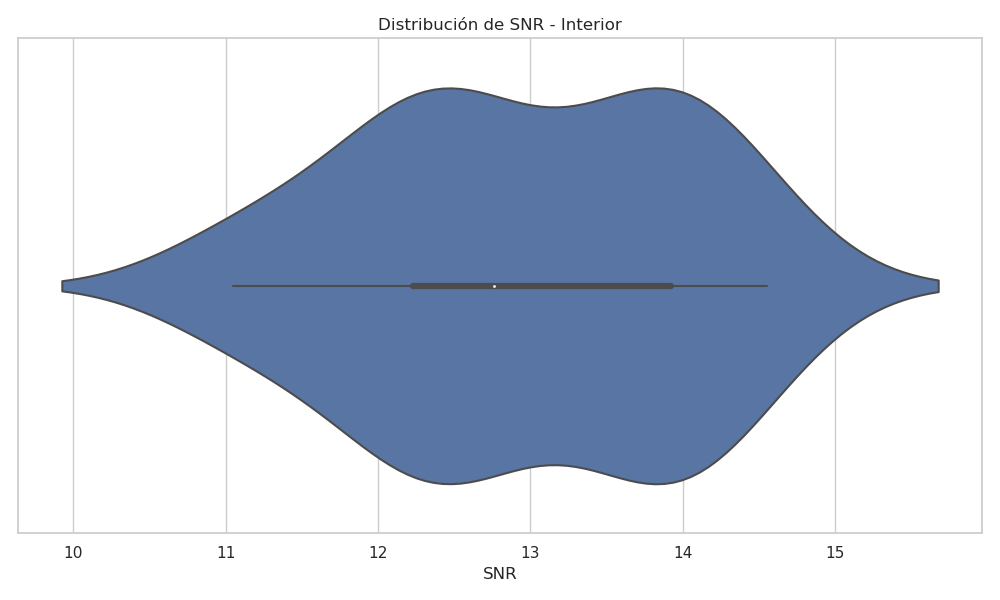
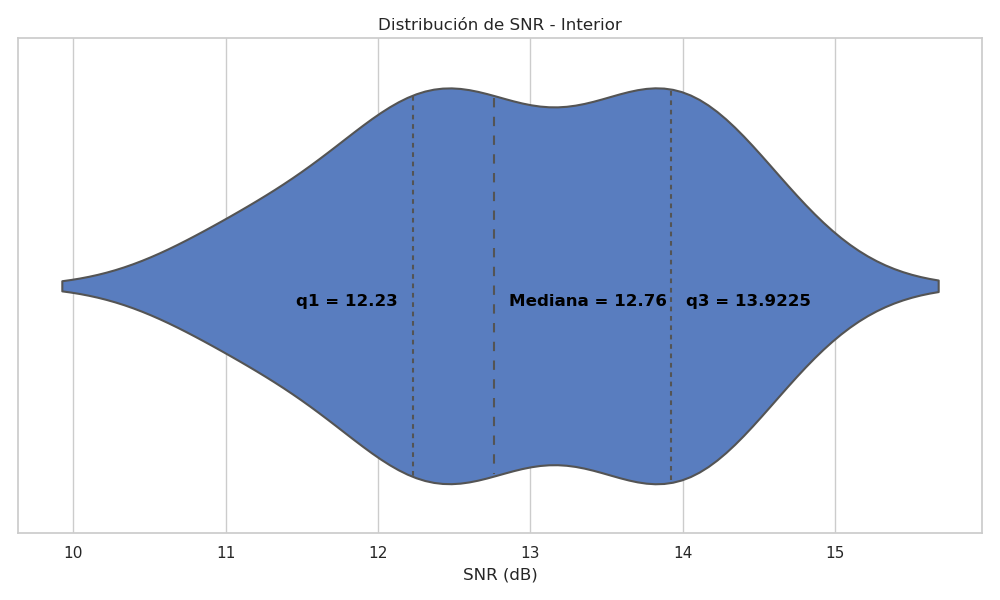
Se agregan los cuartiles al grafico

diff --git a/Laboratorio_SNR/Analisis/indoor.py b/Laboratorio_SNR/Analisis/indoor.py
@@ -98,10 +98,30 @@ plt.savefig('img/Boxplot_SNR_Indoor.png')
 #plt.show()
 
 # Gráfico de violín para visualizar la distribución de SNR
-plt.figure(figsize=(10, 6))  # Ajusta el tamaño del gráfico según necesites
-sns.violinplot(x=data1['SNR'])  # Cambia 'data1' por el nombre de tu DataFrame
-plt.title('Distribución de SNR - Interior')  # Ajusta el título según corresponda
-plt.xlabel('SNR')  # Etiqueta para el eje X
+##plt.figure(figsize=(10, 6))  # Ajusta el tamaño del gráfico según necesites
+##sns.violinplot(x=data1['SNR'])  # Cambia 'data1' por el nombre de tu DataFrame
+##plt.title('Distribución de SNR - Interior')  # Ajusta el título según corresponda
+##plt.xlabel('SNR')  # Etiqueta para el eje X
+
+
+# Asumiendo que tienes un DataFrame llamado 'data' y quieres graficar la columna 'SNR'
+plt.figure(figsize=(10, 6))
+sns.violinplot(x='SNR', data=data1, inner = 'quartile', palette='muted')  # El argumento 'inner' se utiliza para mostrar los cuartiles
+#sns.violinplot(x='SNR', data=data1, inner='box', palette='muted')  # El argumento 'inner' se utiliza para mostrar los cuartiles
+
+# Calcular estadísticas como la mediana y los cuartiles
+median = data1['SNR'].median()
+q1 = data1['SNR'].quantile(0.25)
+q3 = data1['SNR'].quantile(0.75)
+
+# Añadir anotaciones para la mediana y los cuartiles
+plt.text(median + 0.1, 0.04, f'Mediana = {median}', horizontalalignment='left', size='medium', color='black', weight='semibold')
+plt.text(q1 - 0.1, 0.04, f'q1 = {q1}', horizontalalignment='right', size='medium', color='black', weight='semibold')
+plt.text(q3 + 0.1, 0.04, f'q3 = {q3}', horizontalalignment='left', size='medium', color='black', weight='semibold')
+
+plt.title('Distribución de SNR - Interior')
+plt.xlabel('SNR (dB)')
+#plt.show()
 
 # Guardar y mostrar el boxplot
 plt.tight_layout()
